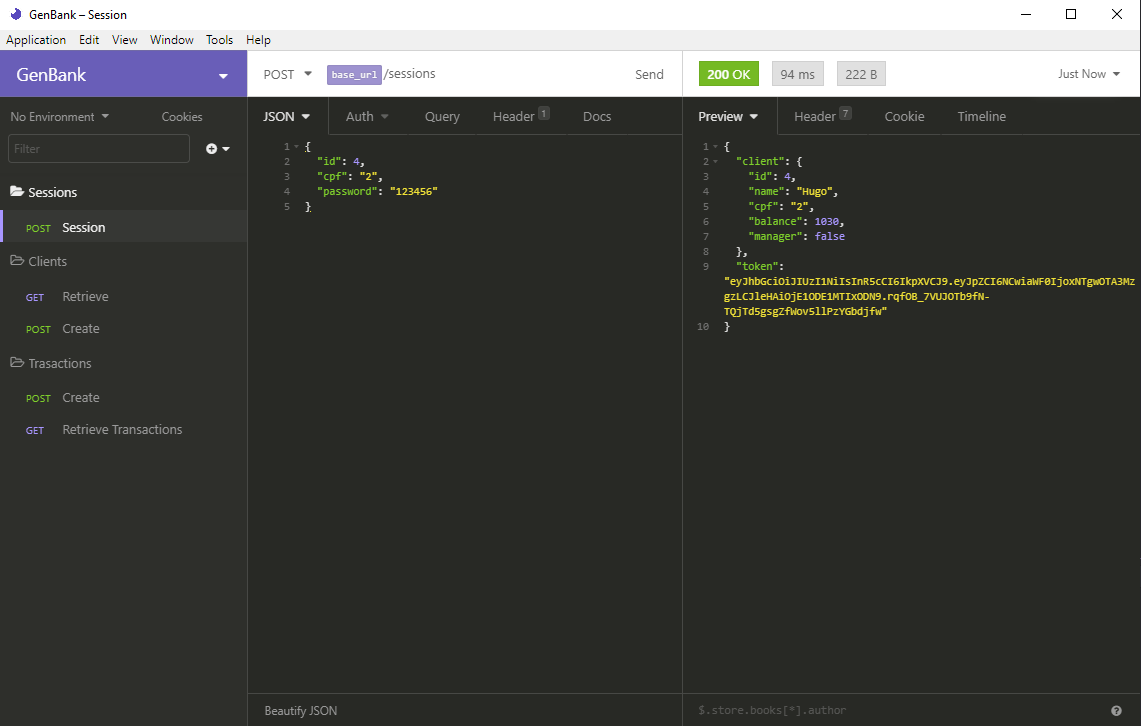
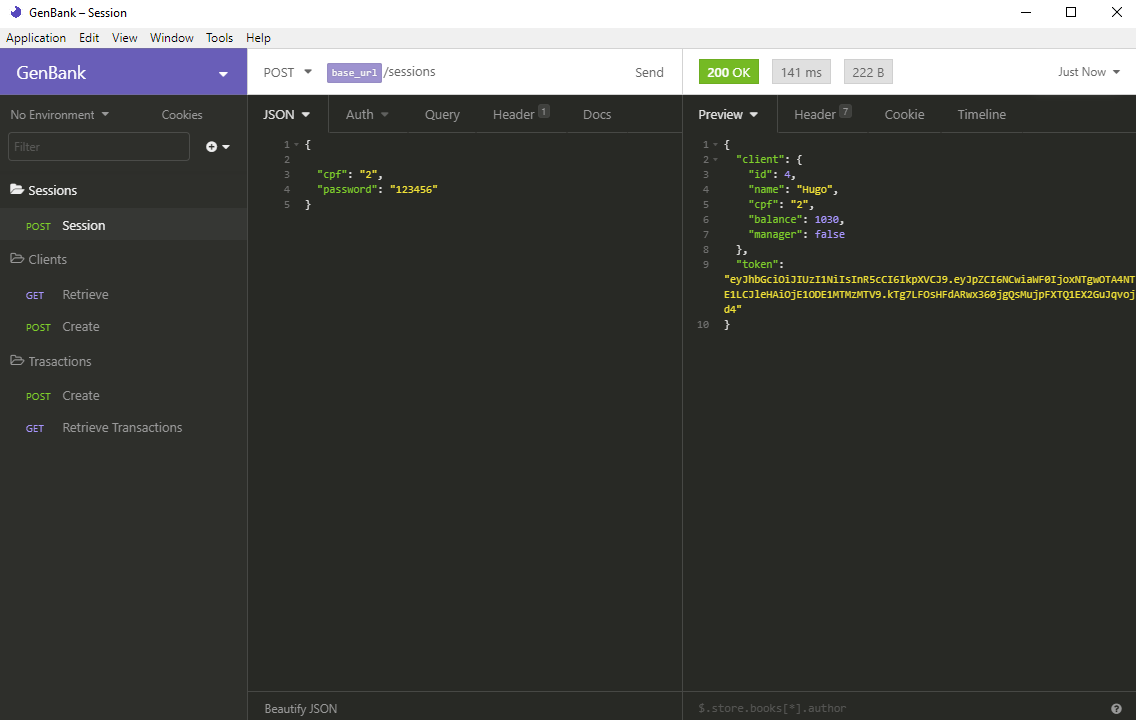
Fix sessionController: Only request que CPF of the user that must be unique

diff --git a/src/app/Controllers/SessionController.js b/src/app/Controllers/SessionController.js
@@ -8,7 +8,7 @@ import Client from '../models/Client';
 class SessionController {
   async store(req, res) {
     const schema = Yup.object().shape({
-      id: Yup.number().required(),
+      // id: Yup.number().required(),
       cpf: Yup.string().required(),
       password: Yup.string().required(),
     });
@@ -16,26 +16,15 @@ class SessionController {
     if (!(await schema.isValid(req.body))) {
       return res.status(400).json({ error: 'Validation fails' });
     }
-    const { id, cpf, password } = req.body;
+    const { cpf, password } = req.body;
 
-    const idClient = await Client.findOne({ where: { id } });
+    const client = await Client.findOne({ where: { cpf } });
 
-    const cpfClient = await Client.findOne({ where: { cpf } });
-
-    if (!cpfClient || !idClient) {
-      return res
-        .status(401)
-        .json({ error: 'Client not found check the data again' });
-    }
-    if (idClient.id !== cpfClient.id && idClient.cpf !== cpfClient.cpf) {
-      return res.status(401).json({ error: 'Account does not match with cpf' });
-    }
-
-    if (!(await idClient.checkPassword(password))) {
+    if (!(await client.checkPassword(password))) {
       return res.status(401).json({ error: 'Password does not match' });
     }
 
-    const { name, balance, manager } = idClient;
+    const { id, name, balance, manager } = client;
 
     return res.json({
       client: {
